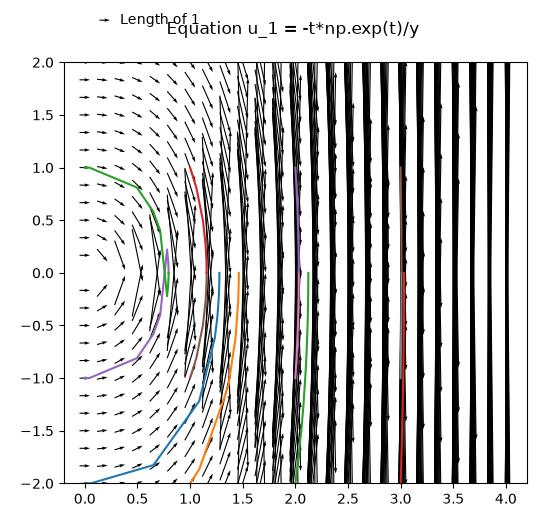
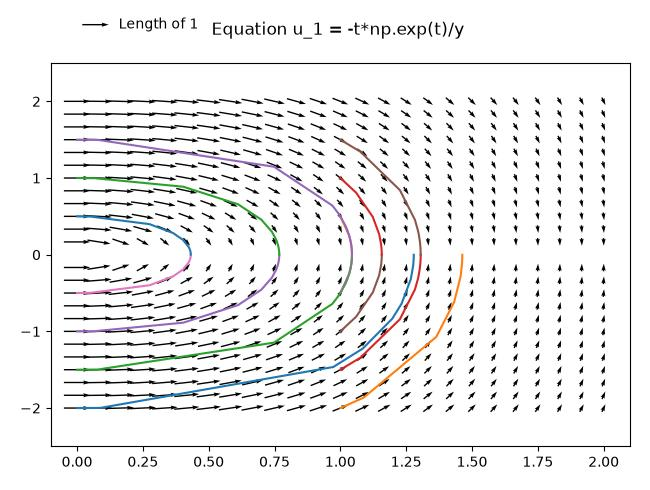
some more ivp exercises

diff --git a/exercises.py b/exercises.py
@@ -2,6 +2,8 @@ import numpy as np
 import matplotlib.pyplot as plt
 from scipy.integrate import solve_ivp
 
+# exercises from boyce + diprima
+
 expr_1 = 't+np.exp(-2*t)-3*y'
 expr_2 = '1 + t*np.exp(-t) - y'
 expr_3 = '3+2*np.cos(2*t)-1/4 *y'
@@ -12,8 +14,12 @@ expr_7= 'y'
 expr_8='-t'
 expr_9='-t*np.exp(t)/y'
 expr_10 = '2*t/(1+2*y)'
-
-expr_list = [expr_1,expr_2,expr_3,expr_4,expr_5,expr_6,expr_7,expr_8,expr_9,expr_10]
+expr_11 = 'np.sin(2*y)/np.cos(3*t)'
+expr_12 = '3*t**2 / (3 *y**2 - 4)'
+expr_13 = '(y - 4*t) / (t-y)'
+expr_14 = '(t**2 + t*y + y**2 )/ t**2'
+expr_15 = '(t**2 + 3*y**2)/(2*t*y)'
+expr_list = [expr_1,expr_2,expr_3,expr_4,expr_5,expr_6,expr_7,expr_8,expr_9,expr_10,expr_11,expr_12,expr_13,expr_14,expr_15]
 
 def evaluator_1(t,y,expr):
     """Expression evaluator for first order ODE"""
@@ -35,7 +41,7 @@ def zero_event(t,y):
 def plot_field(expr,index):
     """Convert a functional first order ODE expression into vector field plot"""
 #    q = plt.quiver(I,J,U / length,V / length,scale=25,angles='xy')
-    t_max = 4
+    t_max = 2
     t_min = 1e-5
     time = np.linspace(t_min,t_max,25)
     space = np.linspace(-2,2,25)
@@ -44,13 +50,14 @@ def plot_field(expr,index):
     U = np.ones_like(I)
     V = evaluator_1(I,J,expr)
     V = np.where(V!=0, V, np.nan)
+    length = np.hypot(U,V)
     #V = J
 #    U,V=evaluator_2(I,J,expr_7,expr_8)
     #q = ax[index].quiver(i,j,i+0.5,0.5*func(i,j)+j)
-    q = ax.quiver(I,J,U,V,scale=10,angles='xy',scale_units='xy',pivot='mid')
+    q = ax.quiver(I,J,U / length,V / length,scale=10,angles='xy',scale_units='xy',pivot='mid')
     ax.quiverkey(q, X=0.1,Y=1.1,U=1,label='Length of 1',labelpos='E')
     #ax[index].quiverkey(q, X=0.3,Y=0.3,U=1,label='Test',labelpos='E')
-    cs = np.arange(-2,2,1)
+    cs = np.arange(-2,2,0.5)
     for c in cs:
         for t0 in np.arange(t_min,t_max,1):
             y0 = c
@@ -58,15 +65,18 @@ def plot_field(expr,index):
             sol = solve_ivp(lambda t,y : evaluator_1(t,y,expr),(t0,t_max),[y0],events=zero_event)
             ax.plot(sol.t,sol.y[0],label='Soln at t0 = '+str(t0)+' y0 = '+str(y0))
 ##          #  ax.plot(time,solution_4(time,y0))
-    ax.set_aspect('equal')
-    ax.set_ylim(-2,2)
+#    ax.set_aspect('equal')
+    ax.set_ylim(-2.5,2.5)
 
-    plt.tight_layout()
     plt.title(f"Equation u_1 = {expr} \n")
+    plt.tight_layout()
 #    plt.legend()
     plt.savefig(f'fields/field_exercise_{index}.jpg',bbox_inches='tight',pad_inches=0.2)
 
     plt.show()
+
+
+plot_field(expr_15,0)
 
 for index,expr in enumerate(expr_list):
     plot_field(expr,index)
